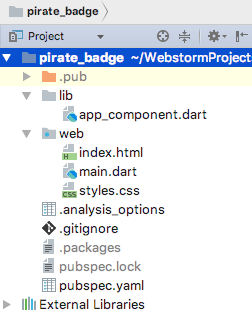
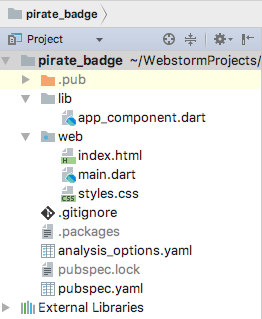
Update text & images affected by 1.0.21 stagehand template changes (#391)
* Update images affected by 1.0.21 stagehand template changes

* Update text affected by 1.0.21 stagehand template changes

* Update text that refers to (obsolete version of) QuickStart

* compress images

(unfortunately, some still have alpha channel. oops.)

Changed region(s): [[0.0, 0.0, 1.0, 1.0], [0.0, 0.9369, 0.0556, 0.9653]]

diff --git a/src/_codelabs/ng2/1-skeleton.md b/src/_codelabs/ng2/1-skeleton.md
@@ -75,14 +75,18 @@ change the name of the project from `untitled` to `pirate_badge`.
 <li markdown="1">Make sure that **Generate sample content** is checked.
 </li>
 
-<li markdown="1">Select **Angular QuickStart Example** from the list.
+<li markdown="1">Select **Simple Angular Example** from the list.
 
 The form should look similar to the following:
 
-<img style="border:1px solid black" src="images/create-ng2-project.png" alt="A screenshot of the Welcome to WebStorm screen, with the specified selections">
+<img src="images/create-ng2-project.png" alt="A screenshot of the Welcome to WebStorm screen, with the specified selections">
 </li>
 
 <li markdown="1">Click **Create**.
+</li>
+
+<li markdown="1">Double-click **pubspec.yaml** to open the file,
+and then click **Get dependencies**.
 </li>
 </ol>
 
@@ -118,7 +122,7 @@ mkdir pirate_badge
 {% prettify none %}
 cd pirate_badge
 pub global activate stagehand
-stagehand web-angular-quickstart
+stagehand web-angular-simple
 {% endprettify %}
 
 </li>
@@ -332,13 +336,14 @@ main() {
 <!DOCTYPE html>
 <html>
   <head>
+    ...
     <title>Hello Angular</title>
     ...
     <script defer src="main.dart" type="application/dart"></script>
     <script defer src="packages/browser/dart.js"></script>
   </head>
   <body>
-    <my-app>Loading AppComponent content here ...</my-app>
+    <my-app>Loading...</my-app>
   </body>
 </html>
 {% endprettify %}
